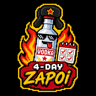
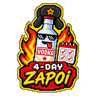
Remove Barsetka and replace Zapoi artwork

diff --git a/tests/engine.test.js b/tests/engine.test.js
@@ -24,9 +24,9 @@ function badges() {
 	return [
 		{ key: 'beer', threshold: 5, label: 'Beer badge', description: 'You earned the Beer badge for seeing 5 posts.', alt: 'Cute beer badge', url: 'https://example.com/badges/beer.png' },
 		{ key: 'vodka', threshold: 10, label: 'Vodka badge', description: 'You earned the Vodka badge for seeing 10 posts.', alt: 'Vodka bottle badge', url: 'https://example.com/badges/vodka.png' },
-		{ key: 'barsetka', threshold: 20, label: 'Barsetka badge', description: 'You earned the Barsetka waist bag badge for seeing 20 posts.', alt: 'Black barsetka waist bag badge', url: 'https://example.com/badges/barsetka.png' },
 		{ key: 'gopnik', threshold: 50, label: 'Gopnik badge', description: 'You earned the Gopnik badge for seeing 50 posts.', alt: 'Gopnik character badge', url: 'https://example.com/badges/gopnik.png' },
-		{ key: 'bmw', threshold: 100, label: 'Black BMW badge', description: 'You earned the Black BMW badge for seeing 100 posts.', alt: 'Black BMW badge', url: 'https://example.com/badges/bmw.png' }
+		{ key: 'bmw', threshold: 100, label: 'Black BMW badge', description: 'You earned the Black BMW badge for seeing 100 posts.', alt: 'Black BMW badge', url: 'https://example.com/badges/bmw.png' },
+		{ key: 'zapoi', type: 'streak', threshold: 4, label: 'Zapoi badge', requirement: '4-Day Vodka Streak', description: 'Four days straight. This is officially a zapoi.', alt: 'Zapoi badge', url: 'https://example.com/badges/zapoi.png' }
 	];
 }
 
@@ -490,7 +490,7 @@ test('unlocks the beer milestone in the top shelf with a brief, explained achiev
 	observer.trigger(fifth, 0.5);
 	await new Promise((resolve) => window.setTimeout(resolve, 10));
 	assert.equal(achievements.hidden, false);
-	assert.deepEqual([...achievements.querySelectorAll('.wp-seen-posts-achievement')].map((item) => item.dataset.badgeKey), ['beer', 'vodka', 'barsetka', 'gopnik', 'bmw']);
+	assert.deepEqual([...achievements.querySelectorAll('.wp-seen-posts-achievement')].map((item) => item.dataset.badgeKey), ['beer', 'vodka', 'gopnik', 'bmw', 'zapoi']);
 	assert.equal(achievements.querySelector('[data-badge-key="beer"]').dataset.badgeState, 'earned');
 	assert.equal(achievements.querySelector('[data-badge-key="vodka"]').dataset.badgeState, 'locked');
 	assert.equal(achievements.querySelector('img').src, 'https://example.com/badges/beer.png');
@@ -514,7 +514,7 @@ test('accumulates earned milestones only in the top roadmap', async () => {
 	const history = Object.fromEntries(Array.from({ length: 100 }, (_, index) => [String(index + 1), now]));
 	const { window } = await boot(history);
 	const achievements = window.document.querySelector('.wp-seen-posts-achievements');
-	assert.deepEqual([...achievements.querySelectorAll('.wp-seen-posts-achievement')].map((item) => item.dataset.badgeKey), ['beer', 'vodka', 'barsetka', 'gopnik', 'bmw']);
+	assert.deepEqual([...achievements.querySelectorAll('.wp-seen-posts-achievement')].map((item) => item.dataset.badgeKey), ['beer', 'vodka', 'gopnik', 'bmw', 'zapoi']);
 	assert.equal(achievements.querySelectorAll('img').length, 5);
 	assert.equal(window.document.querySelectorAll('.wp-seen-posts-badge').length, 0);
 	window.document.querySelector('.wp-seen-posts-reset').click();
@@ -538,18 +538,15 @@ test('unlocks the 100-post Black BMW milestone with animation and toast', async 
 	assert.equal(hundredth.querySelector('.wp-seen-posts-badge'), null);
 });
 
-test('unlocks the 20-post Barsetka milestone with animation and explanation', async () => {
+test('has no Barsetka definition or 20-post unlock behavior', async () => {
 	const now = Math.floor(Date.now() / 1000);
 	const history = Object.fromEntries(Array.from({ length: 19 }, (_, index) => [String(index + 1), now]));
 	const { window, observer } = await boot(history, { postCount: 20 });
 	const twentieth = window.document.querySelector('#prologue-20');
 	observer.trigger(twentieth, 0.5);
 	await new Promise((resolve) => window.setTimeout(resolve, 10));
-	const barsetka = window.document.querySelector('.wp-seen-posts-achievement[data-badge-key="barsetka"]');
-	assert.equal(barsetka.classList.contains('wp-seen-posts-achievement-unlocked'), true);
-	assert.equal(barsetka.querySelector('img').src, 'https://example.com/badges/barsetka.png');
-	assert.equal(barsetka.querySelector('.wp-seen-posts-achievement-tooltip-requirement').textContent, 'You earned the Barsetka waist bag badge for seeing 20 posts.');
-	assert.equal(window.document.querySelector('.wp-seen-posts-unlock-toast').textContent.includes('Barsetka waist bag badge'), true);
+	assert.equal(window.document.querySelector('[data-badge-key="barsetka"]'), null);
+	assert.equal(window.document.querySelector('.wp-seen-posts-unlock-toast'), null);
 	assert.equal(twentieth.querySelector('.wp-seen-posts-badge'), null);
 });
 

diff --git a/tests/single-post.test.js b/tests/single-post.test.js
@@ -41,9 +41,9 @@ async function bootSingle(history = {}, options = {}) {
 		badges: [
 			{ key: 'beer', threshold: 5, label: 'Beer badge', description: 'You earned the Beer badge for seeing 5 posts.', alt: 'Cute beer badge', url: 'https://example.com/beer.png' },
 			{ key: 'vodka', threshold: 10, label: 'Vodka badge', description: 'You earned the Vodka badge for seeing 10 posts.', alt: 'Vodka bottle badge', url: 'https://example.com/vodka.png' },
-			{ key: 'barsetka', threshold: 20, label: 'Barsetka badge', description: 'You earned the Barsetka waist bag badge for seeing 20 posts.', alt: 'Black barsetka waist bag badge', url: 'https://example.com/barsetka.png' },
 			{ key: 'gopnik', threshold: 50, label: 'Gopnik badge', description: 'You earned the Gopnik badge for seeing 50 posts.', alt: 'Gopnik character badge', url: 'https://example.com/gopnik.png' },
-			{ key: 'bmw', threshold: 100, label: 'Black BMW badge', description: 'You earned the Black BMW badge for seeing 100 posts.', alt: 'Black BMW badge', url: 'https://example.com/bmw.png' }
+			{ key: 'bmw', threshold: 100, label: 'Black BMW badge', description: 'You earned the Black BMW badge for seeing 100 posts.', alt: 'Black BMW badge', url: 'https://example.com/bmw.png' },
+			{ key: 'zapoi', type: 'streak', threshold: 4, label: 'Zapoi badge', description: 'Four days straight. This is officially a zapoi.', alt: 'Zapoi badge', url: 'https://example.com/zapoi.png' }
 		],
 		i18n: {
 			seen: 'Seen', achievements: 'Your badges', badgeHint: 'Tap a badge to see why you earned it.',
@@ -221,14 +221,11 @@ test('unlocks and animates the Black BMW badge on a 100th direct post', async ()
 	assert.equal(toast.textContent.includes('Black BMW badge'), true);
 });
 
-test('unlocks and animates the Barsetka badge on a 20th direct post', async () => {
+test('does not unlock any retired badge on a 20th direct post', async () => {
 	const now = Math.floor(Date.now() / 1000);
 	const history = Object.fromEntries(Array.from({ length: 19 }, (_, index) => [String(index + 100), now]));
 	const { window, recordedDetail } = await bootSingle(history);
 	await new Promise((resolve) => window.setTimeout(resolve, 12));
-	assert.equal(recordedDetail().unlocked, 'barsetka');
-	const toast = window.document.querySelector('.wp-seen-posts-unlock-toast');
-	assert.equal(toast.classList.contains('is-visible'), true);
-	assert.equal(toast.querySelector('img').src, 'https://example.com/barsetka.png');
-	assert.equal(toast.textContent.includes('Barsetka waist bag badge'), true);
+	assert.equal(recordedDetail().unlocked, '');
+	assert.equal(window.document.querySelector('.wp-seen-posts-unlock-toast'), null);
 });

diff --git a/tests/fixtures/gamification-layout.html b/tests/fixtures/gamification-layout.html
@@ -23,7 +23,6 @@
 				<span class="wp-seen-posts-achievements-list" role="list">
 					<span class="wp-seen-posts-achievement wp-seen-posts-achievement-earned" role="listitem"><button class="wp-seen-posts-achievement-button"><img class="wp-seen-posts-achievement-image" src="../../assets/images/badges/beer.png" width="36" height="36" alt="Beer badge"></button></span>
 					<span class="wp-seen-posts-achievement wp-seen-posts-achievement-earned" role="listitem"><button class="wp-seen-posts-achievement-button"><img class="wp-seen-posts-achievement-image" src="../../assets/images/badges/vodka.png" width="36" height="36" alt="Vodka badge"></button></span>
-					<span class="wp-seen-posts-achievement wp-seen-posts-achievement-earned" role="listitem"><button class="wp-seen-posts-achievement-button"><img class="wp-seen-posts-achievement-image" src="../../assets/images/badges/barsetka.png" width="36" height="36" alt="Barsetka badge"></button></span>
 					<span class="wp-seen-posts-achievement wp-seen-posts-achievement-locked" role="listitem"><button class="wp-seen-posts-achievement-button"><img class="wp-seen-posts-achievement-image" src="../../assets/images/badges/gopnik.png" width="36" height="36" alt="Gopnik badge"></button></span>
 					<span class="wp-seen-posts-achievement wp-seen-posts-achievement-locked" role="listitem"><button class="wp-seen-posts-achievement-button"><img class="wp-seen-posts-achievement-image" src="../../assets/images/badges/bmw.png" width="36" height="36" alt="BMW badge"></button></span>
 					<span class="wp-seen-posts-achievement wp-seen-posts-achievement-locked is-explaining" role="listitem">

diff --git a/assets/js/gamification.js b/assets/js/gamification.js
@@ -71,6 +71,7 @@
 		if (!Array.isArray(value)) return [];
 		var clean = [];
 		value.forEach(function (key) {
+			if (key === 'barsetka') return;
 			if (typeof key === 'string' && /^[a-z0-9_-]+$/.test(key) && clean.indexOf(key) === -1) clean.push(key);
 		});
 		return clean.slice(0, 24);
@@ -132,9 +133,11 @@
 		try {
 			var raw = window.localStorage.getItem(storageKey);
 			var initial = normalizeState(JSON.parse(raw || '{}'));
+			var normalized = JSON.stringify(initial);
 			/* Persist the opaque token immediately so two freshly opened tabs reuse
-			 * one anonymous reader identity before either tab records a post. */
-			if (!raw) window.localStorage.setItem(storageKey, JSON.stringify(initial));
+			 * one anonymous reader identity before either tab records a post. Also
+			 * rewrite legacy state once when retired badge keys are removed. */
+			if (raw !== normalized) window.localStorage.setItem(storageKey, normalized);
 			return initial;
 		}
 		catch (error) { return normalizeState({}); }

diff --git a/tests/gamification.test.js b/tests/gamification.test.js
@@ -116,6 +116,18 @@ test('does not render a misleading zero-day indicator', () => {
 	assert.match(stored.readerToken, /^[a-f0-9]{32}$/);
 });
 
+test('removes the retired Barsetka key from legacy browser state on load', () => {
+	const app = boot({ state: {
+		readerToken: 'b'.repeat(32),
+		currentDate: '2026-08-20',
+		unlockedBadges: ['beer', 'barsetka'],
+		reportedBadges: ['barsetka']
+	} });
+	const stored = JSON.parse(app.window.localStorage.getItem('wp_seen_posts_gamification_v1'));
+	assert.deepEqual(stored.unlockedBadges, ['beer']);
+	assert.deepEqual(stored.reportedBadges, []);
+});
+
 test('fresh tabs converge on one anonymous reader token', () => {
 	const firstToken = 'f'.repeat(32);
 	const secondToken = 'a'.repeat(32);

diff --git a/wp-seen-posts.php b/wp-seen-posts.php
@@ -3,7 +3,7 @@
  * Plugin Name:       WP Seen Posts
  * Plugin URI:        https://github.com/ilyavish/wp-seen-posts
  * Description:       Tracks Seen posts, hides them on later feed visits, and provides anonymous public counters and Top Seen rankings.
- * Version:           1.3.0
+ * Version:           1.3.1
  * Requires at least: 6.0
  * Requires PHP:      7.4
  * Author:            holdmyvodka.com
@@ -18,7 +18,7 @@ if ( ! defined( 'ABSPATH' ) ) {
 	exit;
 }
 
-const VERSION = '1.3.0';
+const VERSION = '1.3.1';
 const OPTION  = 'wp_seen_posts_selectors';
 
 require_once __DIR__ . '/includes/class-settings.php';
@@ -131,17 +131,6 @@ function achievement_badge_definitions(): array {
 			'url'         => badge_asset_url( 'vodka.png' ),
 		),
 		array(
-			'key'         => 'barsetka',
-			'type'        => 'seen_count',
-			'threshold'   => 20,
-			'label'       => __( 'Barsetka badge', 'wp-seen-posts' ),
-			'requirement' => __( 'See 20 posts', 'wp-seen-posts' ),
-			'description' => __( 'You earned the Barsetka waist bag badge for seeing 20 posts.', 'wp-seen-posts' ),
-			'locked_description' => __( 'Locked. See 20 posts to unlock the Barsetka badge.', 'wp-seen-posts' ),
-			'alt'         => __( 'Black barsetka waist bag badge earned after 20 Seen posts', 'wp-seen-posts' ),
-			'url'         => badge_asset_url( 'barsetka.png' ),
-		),
-		array(
 			'key'         => 'gopnik',
 			'type'        => 'seen_count',
 			'threshold'   => 50,
@@ -181,7 +170,20 @@ function achievement_badge_definitions(): array {
 
 	/** Filters all Seen achievement badge definitions, including streak badges. */
 	$badges = apply_filters( 'wp_seen_posts_achievement_badges', $badges );
-	return is_array( $badges ) ? array_values( $badges ) : array();
+	if ( ! is_array( $badges ) ) {
+		return array();
+	}
+
+	/* Barsetka was permanently retired in 1.3.1. Do not let stale extension
+	 * data reintroduce a sixth badge into the shelf or unlock pipeline. */
+	return array_values(
+		array_filter(
+			$badges,
+			static function ( $badge ): bool {
+				return ! is_array( $badge ) || 'barsetka' !== sanitize_key( (string) ( $badge['key'] ?? '' ) );
+			}
+		)
+	);
 }
 
 /** Return badge definitions enriched from the cached aggregate rarity map. */

diff --git a/includes/class-gamification.php b/includes/class-gamification.php
@@ -15,7 +15,7 @@ if ( ! defined( 'ABSPATH' ) ) {
 }
 
 final class Gamification {
-	public const SCHEMA_VERSION        = '1.0.0';
+	public const SCHEMA_VERSION        = '1.0.1';
 	public const SCHEMA_VERSION_OPTION = 'wp_seen_posts_gamification_schema_version';
 	public const REST_NAMESPACE        = 'wp-seen-posts/v1';
 	public const REST_ROUTE            = '/progress';
@@ -36,7 +36,8 @@ final class Gamification {
 
 		require_once ABSPATH . 'wp-admin/includes/upgrade.php';
 
-		$charset_collate = $wpdb->get_charset_collate();
+		$previous_version = (string) get_option( self::SCHEMA_VERSION_OPTION, '' );
+		$charset_collate  = $wpdb->get_charset_collate();
 		$readers_table   = self::readers_table();
 		$stats_table     = self::stats_table();
 
@@ -56,6 +57,15 @@ final class Gamification {
 
 		dbDelta( $readers_sql );
 		dbDelta( $stats_sql );
+
+		/* Version 1.3.1 permanently retired Barsetka. Remove its bounded reader
+		 * key and aggregate row once during the versioned migration, never during
+		 * an ordinary Seen event or page render. */
+		if ( $previous_version && version_compare( $previous_version, '1.0.1', '<' ) ) {
+			$wpdb->query( "UPDATE {$readers_table} SET unlocked_badges = REPLACE(unlocked_badges, ',barsetka,', ',') WHERE unlocked_badges LIKE '%,barsetka,%'" );
+			$wpdb->delete( $stats_table, array( 'stat_key' => 'badge:barsetka' ), array( '%s' ) );
+			self::clear_rarity_cache();
+		}
 
 		if ( false === get_option( self::SCHEMA_VERSION_OPTION, false ) ) {
 			add_option( self::SCHEMA_VERSION_OPTION, self::SCHEMA_VERSION, '', true );

diff --git a/tests/gamification.php b/tests/gamification.php
@@ -38,16 +38,15 @@ $GLOBALS['wp_seen_posts_test_transients'][ Gamification::RARITY_CACHE_KEY ] = ar
 	'eligible_readers' => 1000,
 	'badge:beer'       => 270,
 	'badge:vodka'      => 84,
-	'badge:barsetka'   => 37,
-	'badge:gopnik'     => 8,
-	'badge:bmw'        => 0,
+	'badge:gopnik'     => 37,
+	'badge:bmw'        => 8,
 );
 
 $cases = array(
 	'beer'     => 'Unlocked by 27% of readers',
 	'vodka'    => 'Unlocked by 8.4% of readers',
-	'barsetka' => 'Unlocked by 3.7% of readers',
-	'gopnik'   => 'Unlocked by 0.8% of readers',
+	'gopnik'   => 'Unlocked by 3.7% of readers',
+	'bmw'      => 'Unlocked by 0.8% of readers',
 );
 foreach ( $cases as $badge_key => $expected ) {
 	$percentage = Gamification::get_badge_rarity_percentage( $badge_key );

diff --git a/README.md b/README.md
@@ -19,7 +19,7 @@ A lightweight WordPress plugin that gives archive feeds local Seen/Unseen state.
 - If a reload would otherwise contain no visible cards, two recent Seen cards remain as a stable preview while unseen pages load, avoiding both blank waits and live removal.
 - If that background search takes longer than 500 ms, a compact fixed “Finding unseen posts…” status appears without changing the feed height; fast loads never flash it.
 - Each card uses only one bottom-right eye/count: a quiet gray eye means personally Unseen, and the same eye becomes fully opaque when Seen. No duplicate Seen word or post-level badge artwork is rendered.
-- The top badge shelf shows the 5, 10, 20, 50, and 100-post beer, vodka, barsetka waist bag, gopnik, and Black BMW roadmap plus the optional 4-Day Zapoi streak badge; locked badges are muted in grayscale and earned badges switch to full color.
+- The top badge shelf shows five achievements: the 5, 10, 50, and 100-post Beer, Vodka, Gopnik, and Black BMW roadmap plus the optional 4-Day Zapoi streak badge; locked badges are muted in grayscale and earned badges switch to full color.
 - Three genuinely new lifetime Seen posts complete one calendar day by default. Consecutive completed site-timezone dates grow a vodka streak, a missed date resets only the current streak, and the longest streak remains local.
 - The compact streak chip never displays a misleading zero; it shows either the current streak or optional same-day progress. Use `[seen_unseen_streak]` (alias `[wp_seen_posts_streak]`) or `seen_unseen_get_streak_display()` in a template.
 - Completing a four-day streak unlocks Zapoi once with the existing lightweight badge animation and the supplied local artwork.
